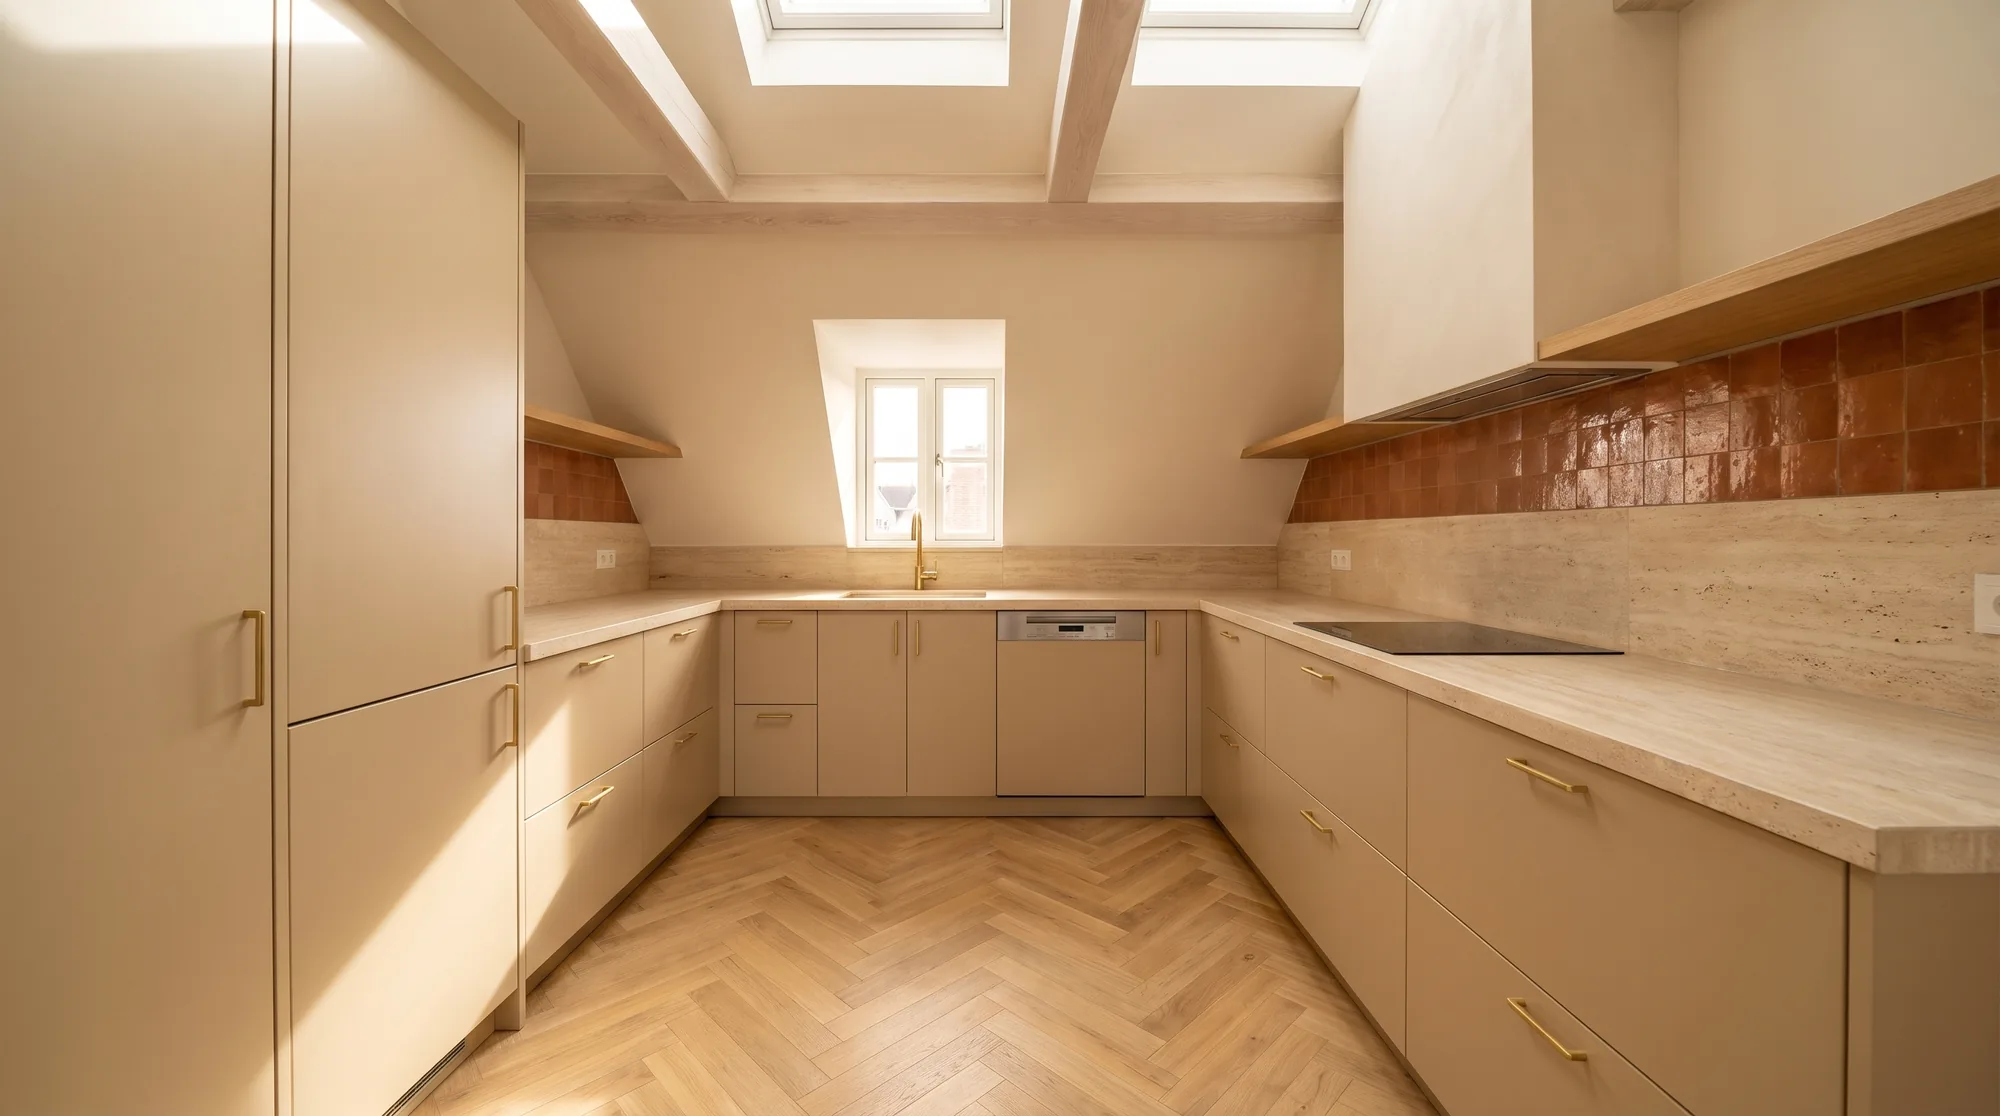
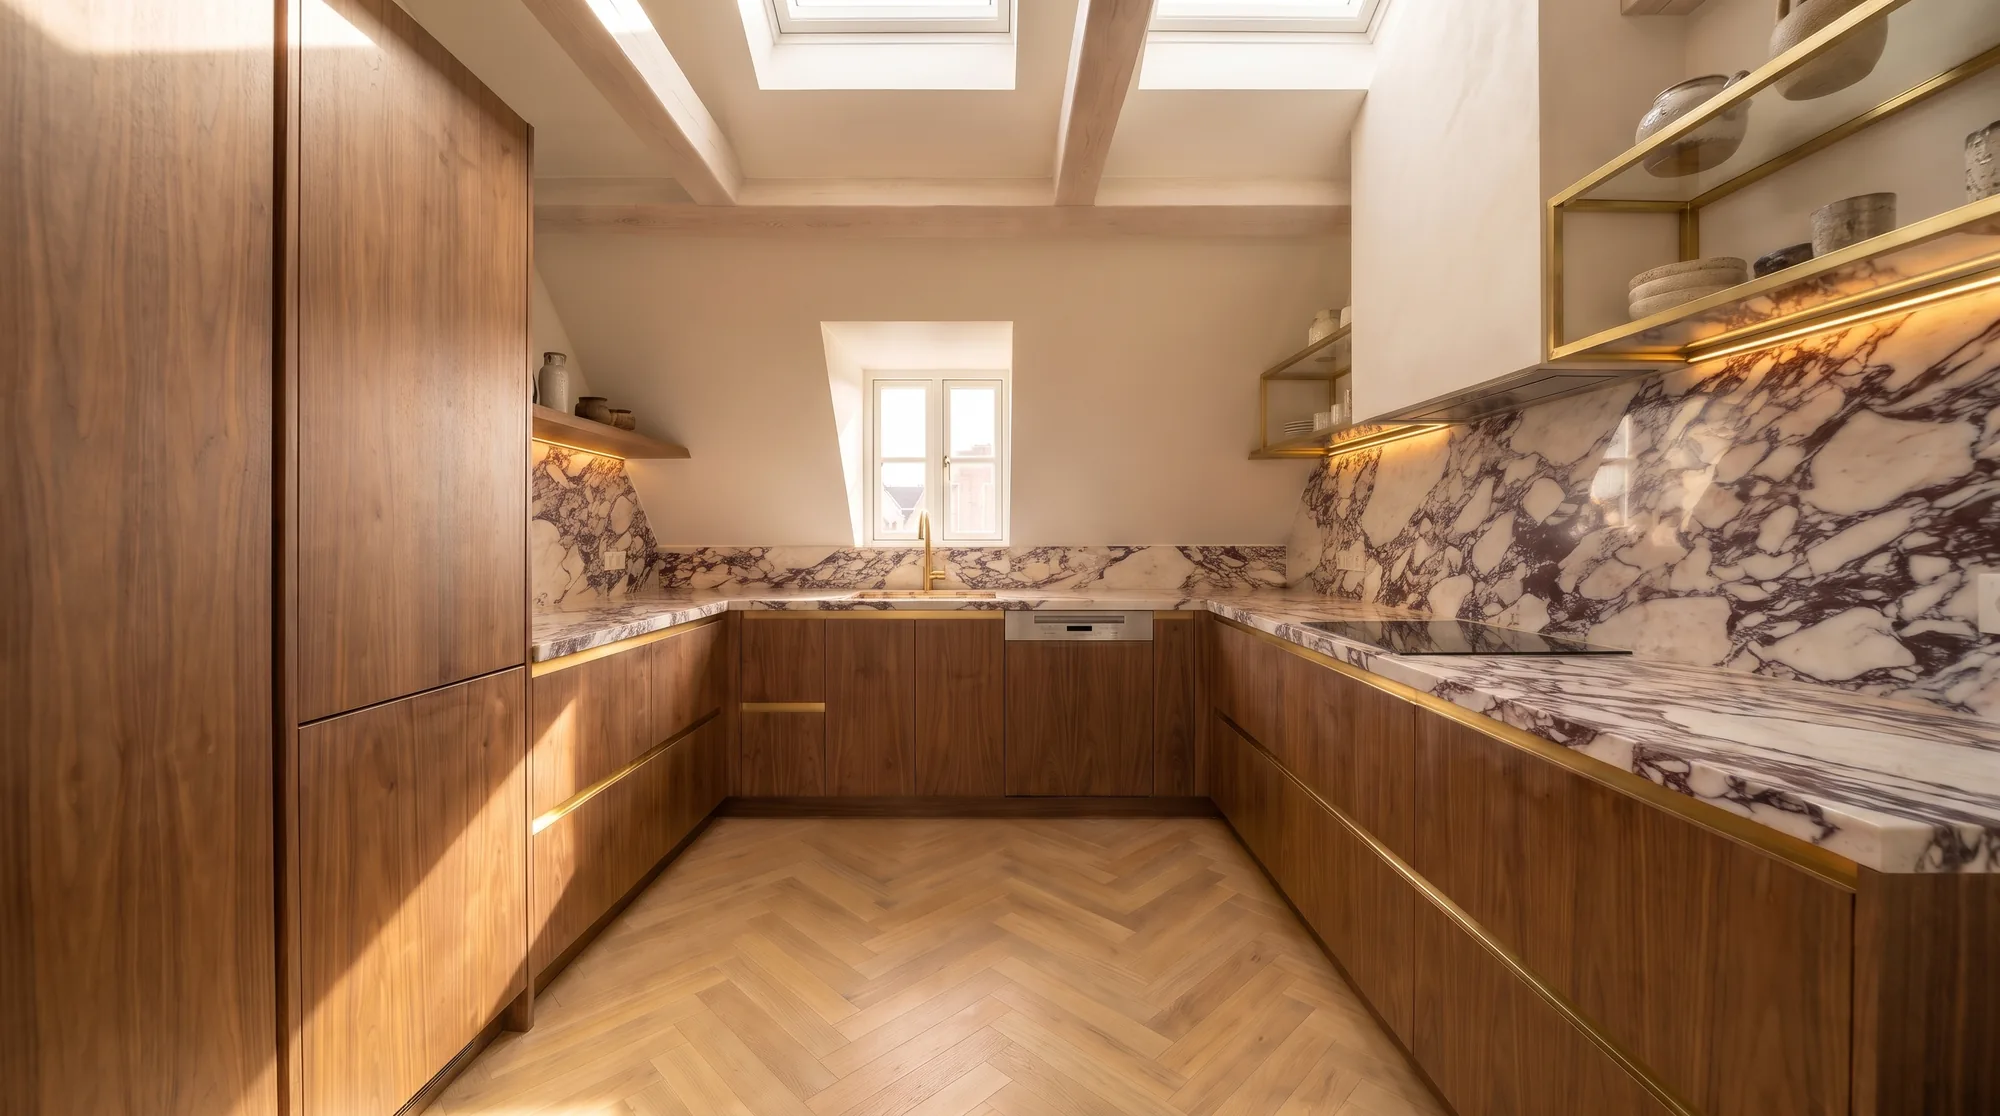
L4: tervrajz szerinti konyhakép
Claude-Session: https://claude.ai/code/session_018xvr5icGNy1B7YPTSB9UEA

diff --git a/index.html b/index.html
@@ -662,7 +662,7 @@ footer li{list-style:none;margin-bottom:8px}
         <p class="fp-note fp-note-plan"><b>Alaprajz a tervek alapján.</b> Az alaprajz és a berendezett felülnézet a jóváhagyott tervrajz szerinti elrendezést mutatja; a helyiségenkénti területek számított, tájékoztató értékek, a lakás hivatalos hasznos alapterülete 52,97 m².</p>
         <div class="fp-gal">
           <figure class="lbx" data-cap="Nappali, étkező és konyha"><img src="images/lakasok/l4-nappali.webp" alt="Nappali, étkező és konyha egy légtérben – bársony kanapé, bőr fotelek, ónix asztal, márvány konyha, tetőtéri gerendák" loading="lazy"><figcaption>Nappali, étkező és konyha</figcaption></figure>
-          <figure class="lbx" data-cap="Konyha"><img src="images/lakasok/l4-konyha.webp" alt="U alakú konyha travertin pulttal és terrakotta csempével" loading="lazy"><figcaption>Konyha</figcaption></figure>
+          <figure class="lbx" data-cap="Konyha"><img src="images/lakasok/l4-konyha.webp" alt="U alakú konyha diófa frontokkal és márvány pulttal – mosogató az ablak alatt, mellette mosogatógép, jobbra főzőlap, balra hűtőoszlop" loading="lazy"><figcaption>Konyha</figcaption></figure>
           <figure class="lbx" data-cap="Hálószoba"><img src="images/lakasok/l4-haloszoba.webp" alt="Hálószoba – diófa szekrényfal beépített TV-vel, bársony ágytámla, selyem ágynemű" loading="lazy"><figcaption>Hálószoba</figcaption></figure>
           <figure class="lbx" data-cap="Fürdőszoba"><img src="images/lakasok/l4-furdoszoba.webp" alt="Fürdőszoba – travertin kád, beépített mosógép, kőmosdó" loading="lazy"><figcaption>Fürdőszoba</figcaption></figure>
         </div>
